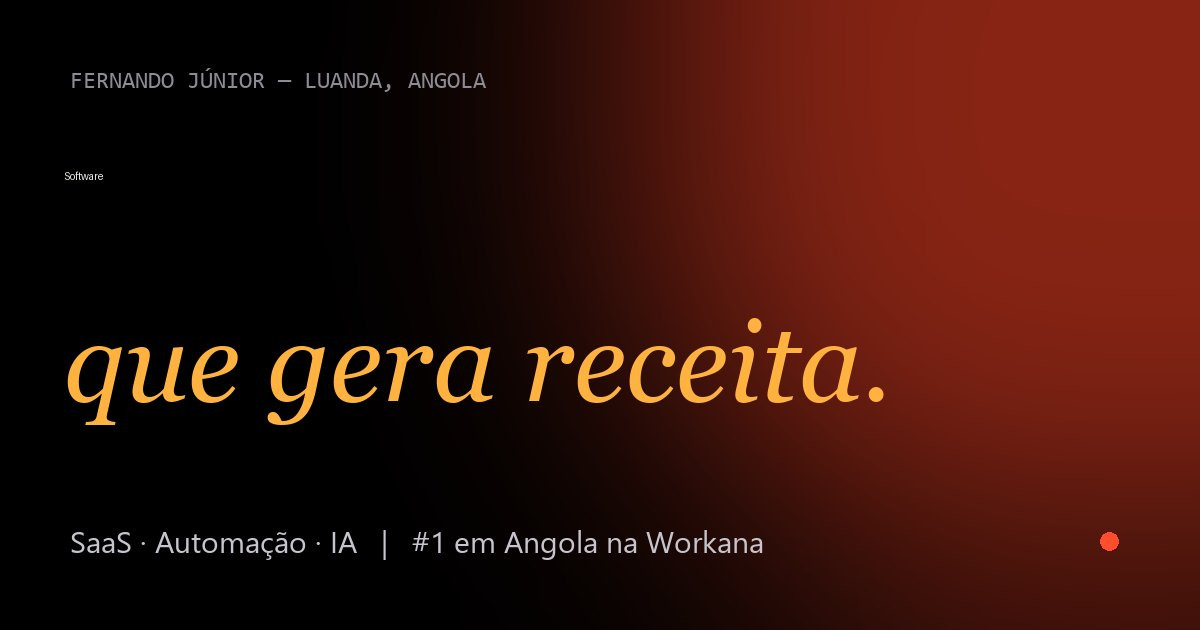
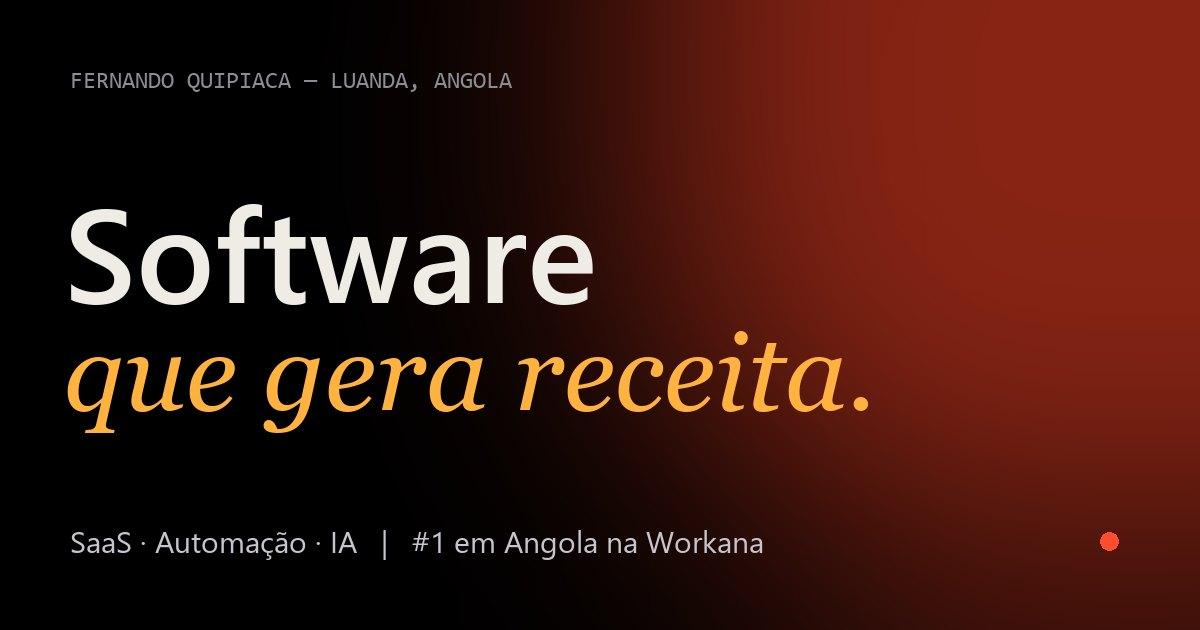
Atualizar nome, WhatsApp e remover botão da Workana
- Nome em destaque passa a "Fernando Quipiaca"
- WhatsApp atualizado para +244 972 537 593
- Removido o botão "Contratar na Workana" do contacto
- Imagem de partilha atualizada

diff --git a/index.html b/index.html
@@ -3,14 +3,14 @@
 <head>
   <meta charset="UTF-8">
   <meta name="viewport" content="width=device-width, initial-scale=1, viewport-fit=cover">
-  <title>Fernando Júnior — Engenheiro Full Stack Sénior · Luanda, Angola</title>
+  <title>Fernando Quipiaca — Engenheiro Full Stack Sénior · Luanda, Angola</title>
   <meta name="description" content="Engenheiro full stack sénior em Luanda. Construo plataformas SaaS, automações com IA e produtos digitais que geram receita. #1 em Angola na Workana. Fale comigo.">
   <meta name="theme-color" content="#07070a">
   <meta name="author" content="Fernando Júnior Grão Paim Quipiaca">
   <link rel="canonical" href="https://portfolio1-1-omega.vercel.app/">
 
   <meta property="og:type" content="website">
-  <meta property="og:title" content="Fernando Júnior — Software que gera receita">
+  <meta property="og:title" content="Fernando Quipiaca — Software que gera receita">
   <meta property="og:description" content="SaaS, automação e IA, do primeiro commit ao primeiro cliente pagante. Engenheiro full stack sénior em Luanda.">
   <meta property="og:image" content="https://portfolio1-1-omega.vercel.app/assets/og.jpg">
   <meta property="og:url" content="https://portfolio1-1-omega.vercel.app/">
@@ -31,7 +31,7 @@
     "jobTitle": "Engenheiro de Software Full Stack Sénior",
     "address": {"@type": "PostalAddress", "addressLocality": "Luanda", "addressCountry": "AO"},
     "email": "mailto:fernandoquipiaca007@gmail.com",
-    "telephone": "+244957459336",
+    "telephone": "+244972537593",
     "url": "https://portfolio1-1-omega.vercel.app/",
     "sameAs": ["https://github.com/fernandoquipiaca007-commits", "https://www.workana.com/freelancer/84dcfe7972237cb7ad32b4fb313682ca"]
   }
@@ -43,7 +43,7 @@
   <!-- PRELOADER -->
   <div class="loader" aria-hidden="true">
     <div class="loader__inner">
-      <span class="loader__name">Fernando Júnior</span>
+      <span class="loader__name">Fernando Quipiaca</span>
       <span class="loader__count"><span data-count>0</span>%</span>
     </div>
     <div class="loader__bar"><span></span></div>
@@ -80,7 +80,7 @@
       <a href="#contacto"><small>05</small>Contacto</a>
     </nav>
     <div class="menu__foot">
-      <a href="https://wa.me/244957459336" target="_blank" rel="noopener">WhatsApp ↗</a>
+      <a href="https://wa.me/244972537593" target="_blank" rel="noopener">WhatsApp ↗</a>
       <a href="mailto:fernandoquipiaca007@gmail.com">E-mail ↗</a>
     </div>
   </div>
@@ -107,7 +107,7 @@
         <p class="hero__lead">Construo plataformas SaaS, automações com IA e produtos digitais para empresas que querem <strong>vender mais e operar com menos esforço</strong>, do primeiro commit ao primeiro cliente pagante.</p>
         <div class="hero__cta">
           <a href="#trabalho" class="btn btn--accent" data-magnetic><span>Ver projetos</span><i class="btn__arrow">↘</i></a>
-          <a href="https://wa.me/244957459336?text=Ol%C3%A1%20Fernando%2C%20vi%20o%20seu%20portf%C3%B3lio%20e%20quero%20falar%20sobre%20um%20projeto." target="_blank" rel="noopener" class="btn btn--ghost" data-magnetic><span>Falar no WhatsApp</span></a>
+          <a href="https://wa.me/244972537593?text=Ol%C3%A1%20Fernando%2C%20vi%20o%20seu%20portf%C3%B3lio%20e%20quero%20falar%20sobre%20um%20projeto." target="_blank" rel="noopener" class="btn btn--ghost" data-magnetic><span>Falar no WhatsApp</span></a>
         </div>
         <div class="hero__scroll" aria-hidden="true"><span>Scroll</span><i></i></div>
       </div>
@@ -440,9 +440,8 @@
         <div class="cta__row">
           <p class="muted">Conte-me a ideia. Respondo em menos de 24 horas com os próximos passos.</p>
           <div class="cta__btns">
-            <a href="https://wa.me/244957459336?text=Ol%C3%A1%20Fernando%2C%20vi%20o%20seu%20portf%C3%B3lio%20e%20quero%20falar%20sobre%20um%20projeto." target="_blank" rel="noopener" class="btn btn--accent btn--lg" data-magnetic><span>WhatsApp · +244 957 459 336</span><i class="btn__arrow">↗</i></a>
+            <a href="https://wa.me/244972537593?text=Ol%C3%A1%20Fernando%2C%20vi%20o%20seu%20portf%C3%B3lio%20e%20quero%20falar%20sobre%20um%20projeto." target="_blank" rel="noopener" class="btn btn--accent btn--lg" data-magnetic><span>WhatsApp · +244 972 537 593</span><i class="btn__arrow">↗</i></a>
             <a href="mailto:fernandoquipiaca007@gmail.com?subject=Novo%20projeto" class="btn btn--ghost btn--lg" data-magnetic><span>fernandoquipiaca007@gmail.com</span></a>
-            <a href="https://www.workana.com/freelancer/84dcfe7972237cb7ad32b4fb313682ca" target="_blank" rel="noopener" class="btn btn--ghost btn--lg" data-magnetic><span>Contratar na Workana</span><i class="btn__arrow">↗</i></a>
           </div>
         </div>
       </div>
@@ -450,20 +449,20 @@
   </main>
 
   <footer class="footer wrap">
-    <div class="footer__big" aria-hidden="true">Fernando Júnior</div>
+    <div class="footer__big" aria-hidden="true">Fernando Quipiaca</div>
     <div class="footer__row">
       <span>© <span data-year>2026</span> Fernando Júnior Grão Paim Quipiaca</span>
       <span>Luanda, Angola · <span data-clock>--:--</span></span>
       <nav class="footer__links" aria-label="Redes">
         <a href="https://github.com/fernandoquipiaca007-commits" target="_blank" rel="noopener">GitHub</a>
         <a href="https://www.workana.com/freelancer/84dcfe7972237cb7ad32b4fb313682ca" target="_blank" rel="noopener">Workana</a>
-        <a href="https://wa.me/244957459336" target="_blank" rel="noopener">WhatsApp</a>
+        <a href="https://wa.me/244972537593" target="_blank" rel="noopener">WhatsApp</a>
         <a href="#top">Topo ↑</a>
       </nav>
     </div>
   </footer>
 
-  <a class="fab" href="https://wa.me/244957459336" target="_blank" rel="noopener" aria-label="Falar no WhatsApp">
+  <a class="fab" href="https://wa.me/244972537593" target="_blank" rel="noopener" aria-label="Falar no WhatsApp">
     <svg viewBox="0 0 24 24" width="22" height="22" aria-hidden="true"><path fill="currentColor" d="M12 2a10 10 0 0 0-8.6 15.1L2 22l5-1.3A10 10 0 1 0 12 2Zm0 18.2c-1.5 0-3-.4-4.3-1.2l-.3-.2-3 .8.8-2.9-.2-.3A8.2 8.2 0 1 1 12 20.2Zm4.5-6.1c-.2-.1-1.5-.7-1.7-.8-.2-.1-.4-.1-.6.1l-.8 1c-.1.2-.3.2-.5.1a6.7 6.7 0 0 1-3.3-2.9c-.3-.4.2-.4.7-1.3.1-.2 0-.3 0-.4l-.8-1.8c-.2-.5-.4-.4-.6-.4h-.5c-.2 0-.4.1-.6.3-.2.2-.8.8-.8 2s.8 2.3.9 2.5c.1.2 1.6 2.5 4 3.5 1.5.6 2 .7 2.8.6.4-.1 1.5-.6 1.7-1.2.2-.6.2-1.1.1-1.2l-.5-.4Z"/></svg>
   </a>
 

diff --git a/css/style.css b/css/style.css
@@ -300,7 +300,7 @@ a.row:hover i{color:var(--accent);transform:translate(3px,-3px)}
 
 /* ===== Footer ===== */
 .footer{padding-top:40px;padding-bottom:28px;border-top:1px solid var(--line);overflow:hidden}
-.footer__big{font-size:clamp(3rem,13.6vw,17rem);font-weight:600;letter-spacing:-.075em;line-height:.8;white-space:nowrap;background:linear-gradient(180deg,var(--text) 30%,rgba(239,236,230,.05));-webkit-background-clip:text;background-clip:text;color:transparent;user-select:none}
+.footer__big{font-size:clamp(2.6rem,11.8vw,15rem);font-weight:600;letter-spacing:-.075em;line-height:.8;white-space:nowrap;background:linear-gradient(180deg,var(--text) 30%,rgba(239,236,230,.05));-webkit-background-clip:text;background-clip:text;color:transparent;user-select:none}
 .footer__row{display:flex;justify-content:space-between;gap:20px;flex-wrap:wrap;margin-top:32px;padding-right:72px;font-size:.86rem;color:var(--muted)}
 .footer__links{display:flex;gap:20px;flex-wrap:wrap}
 .footer__links a:hover{color:var(--text)}
